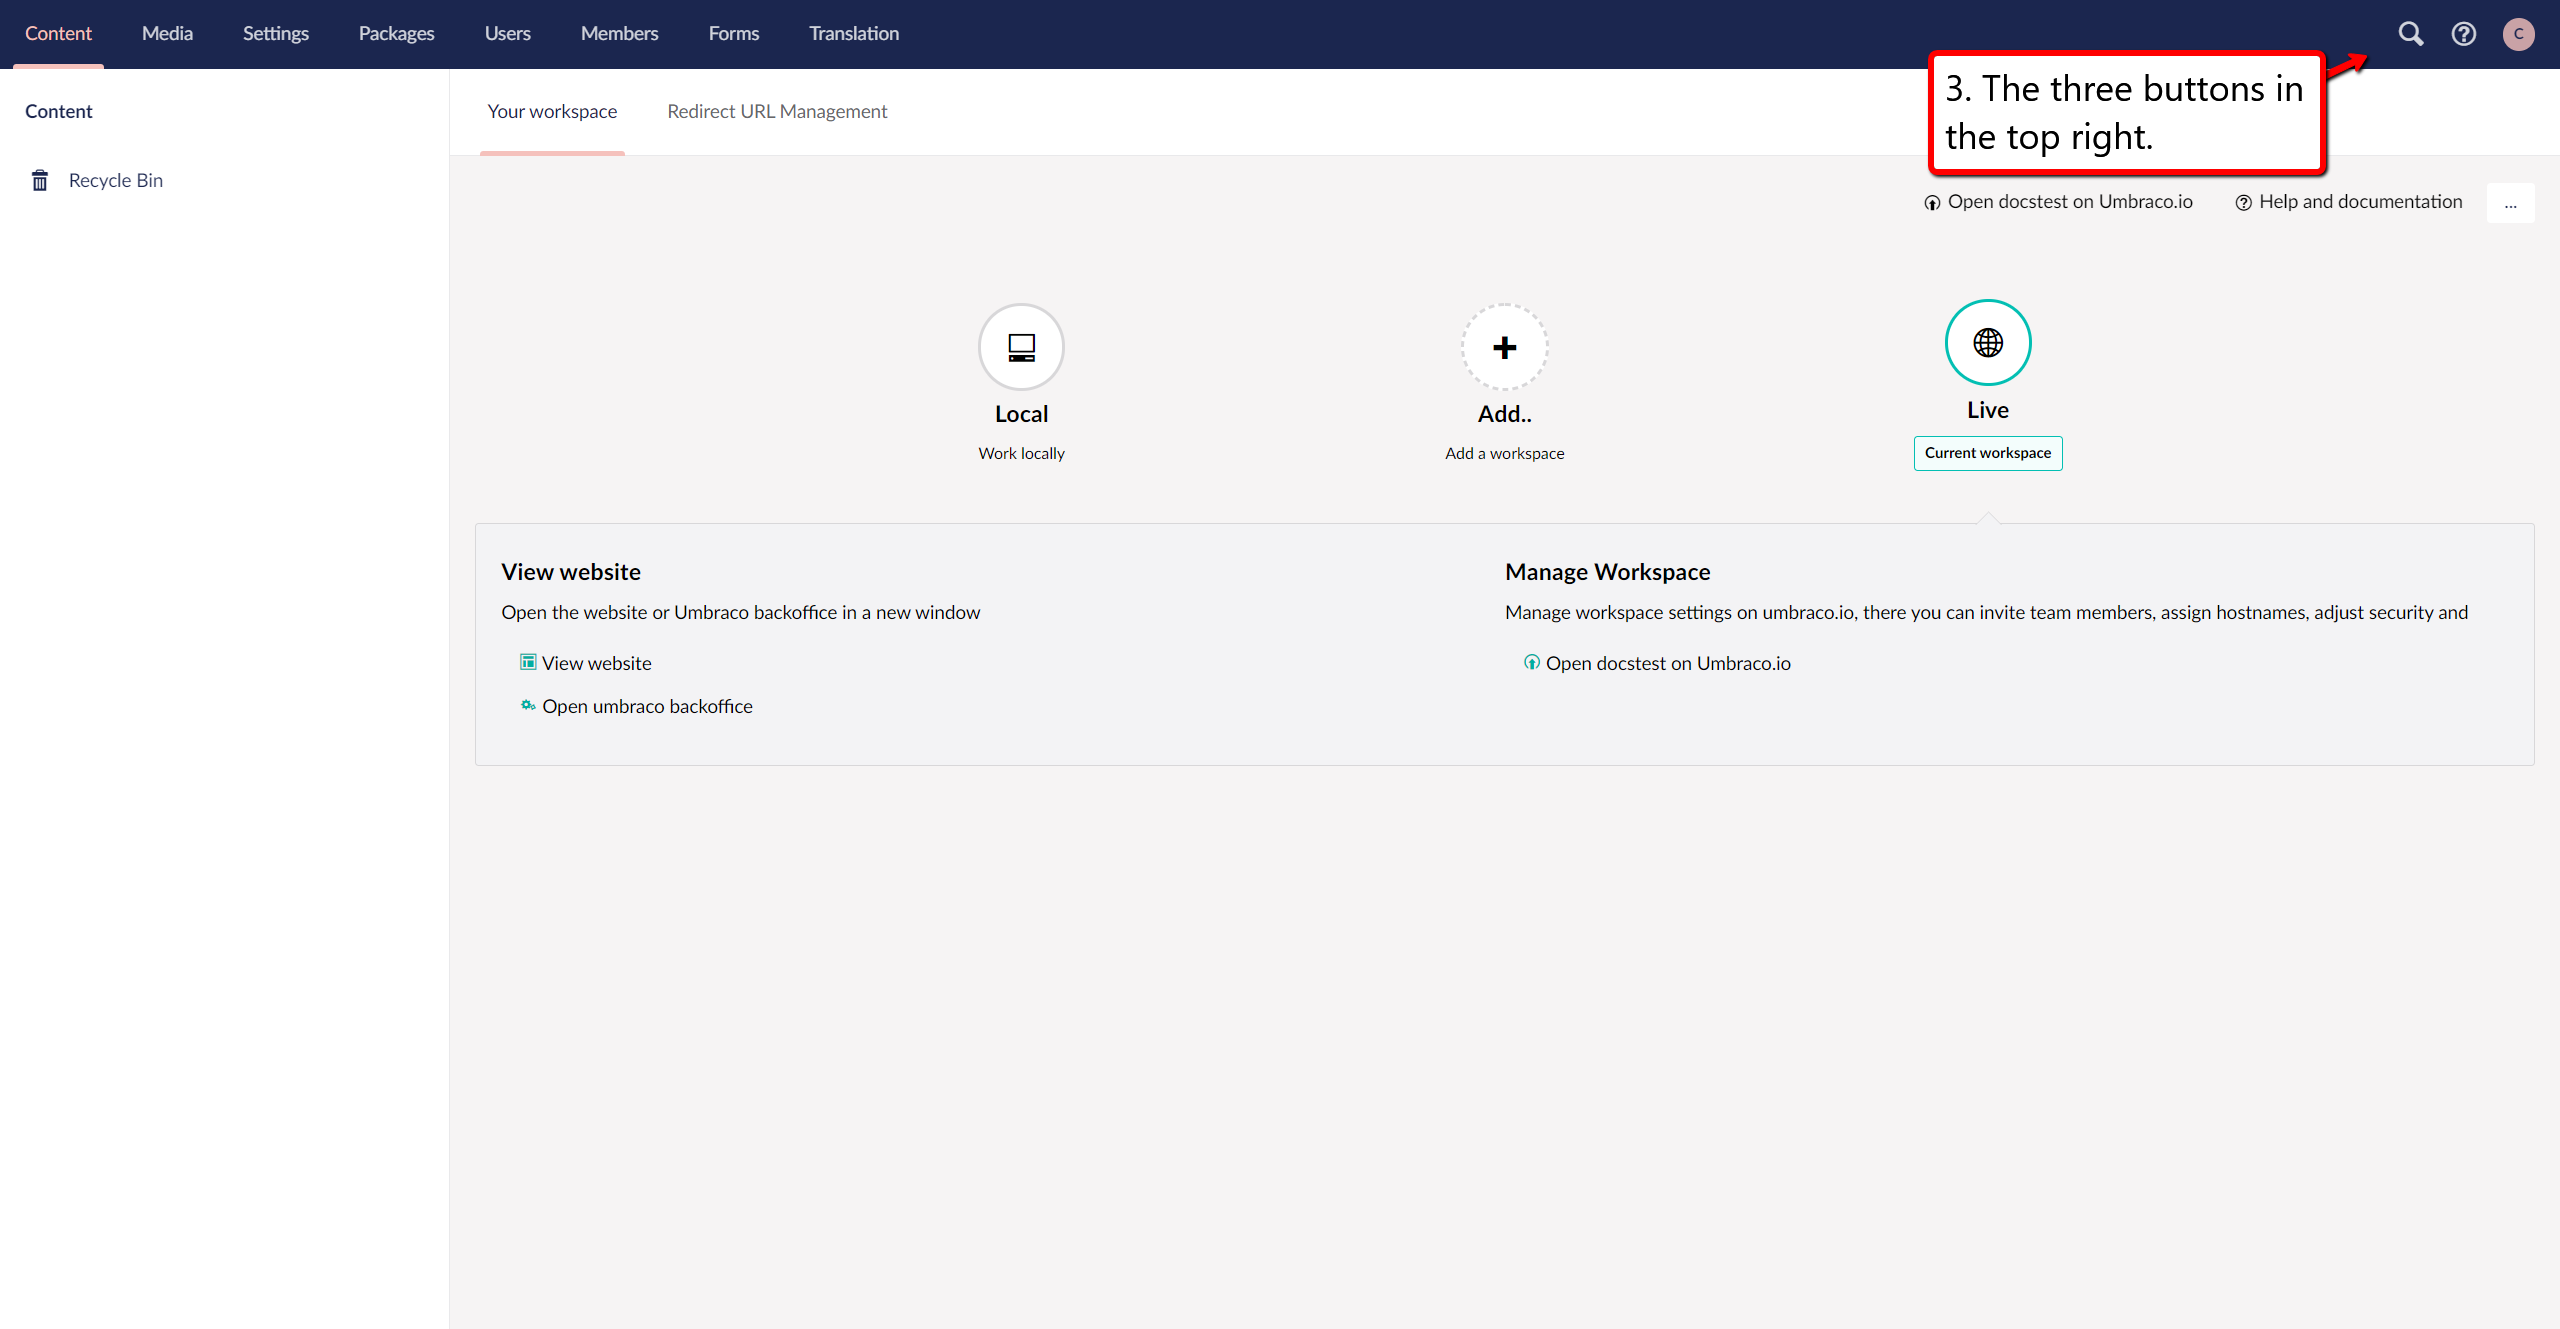
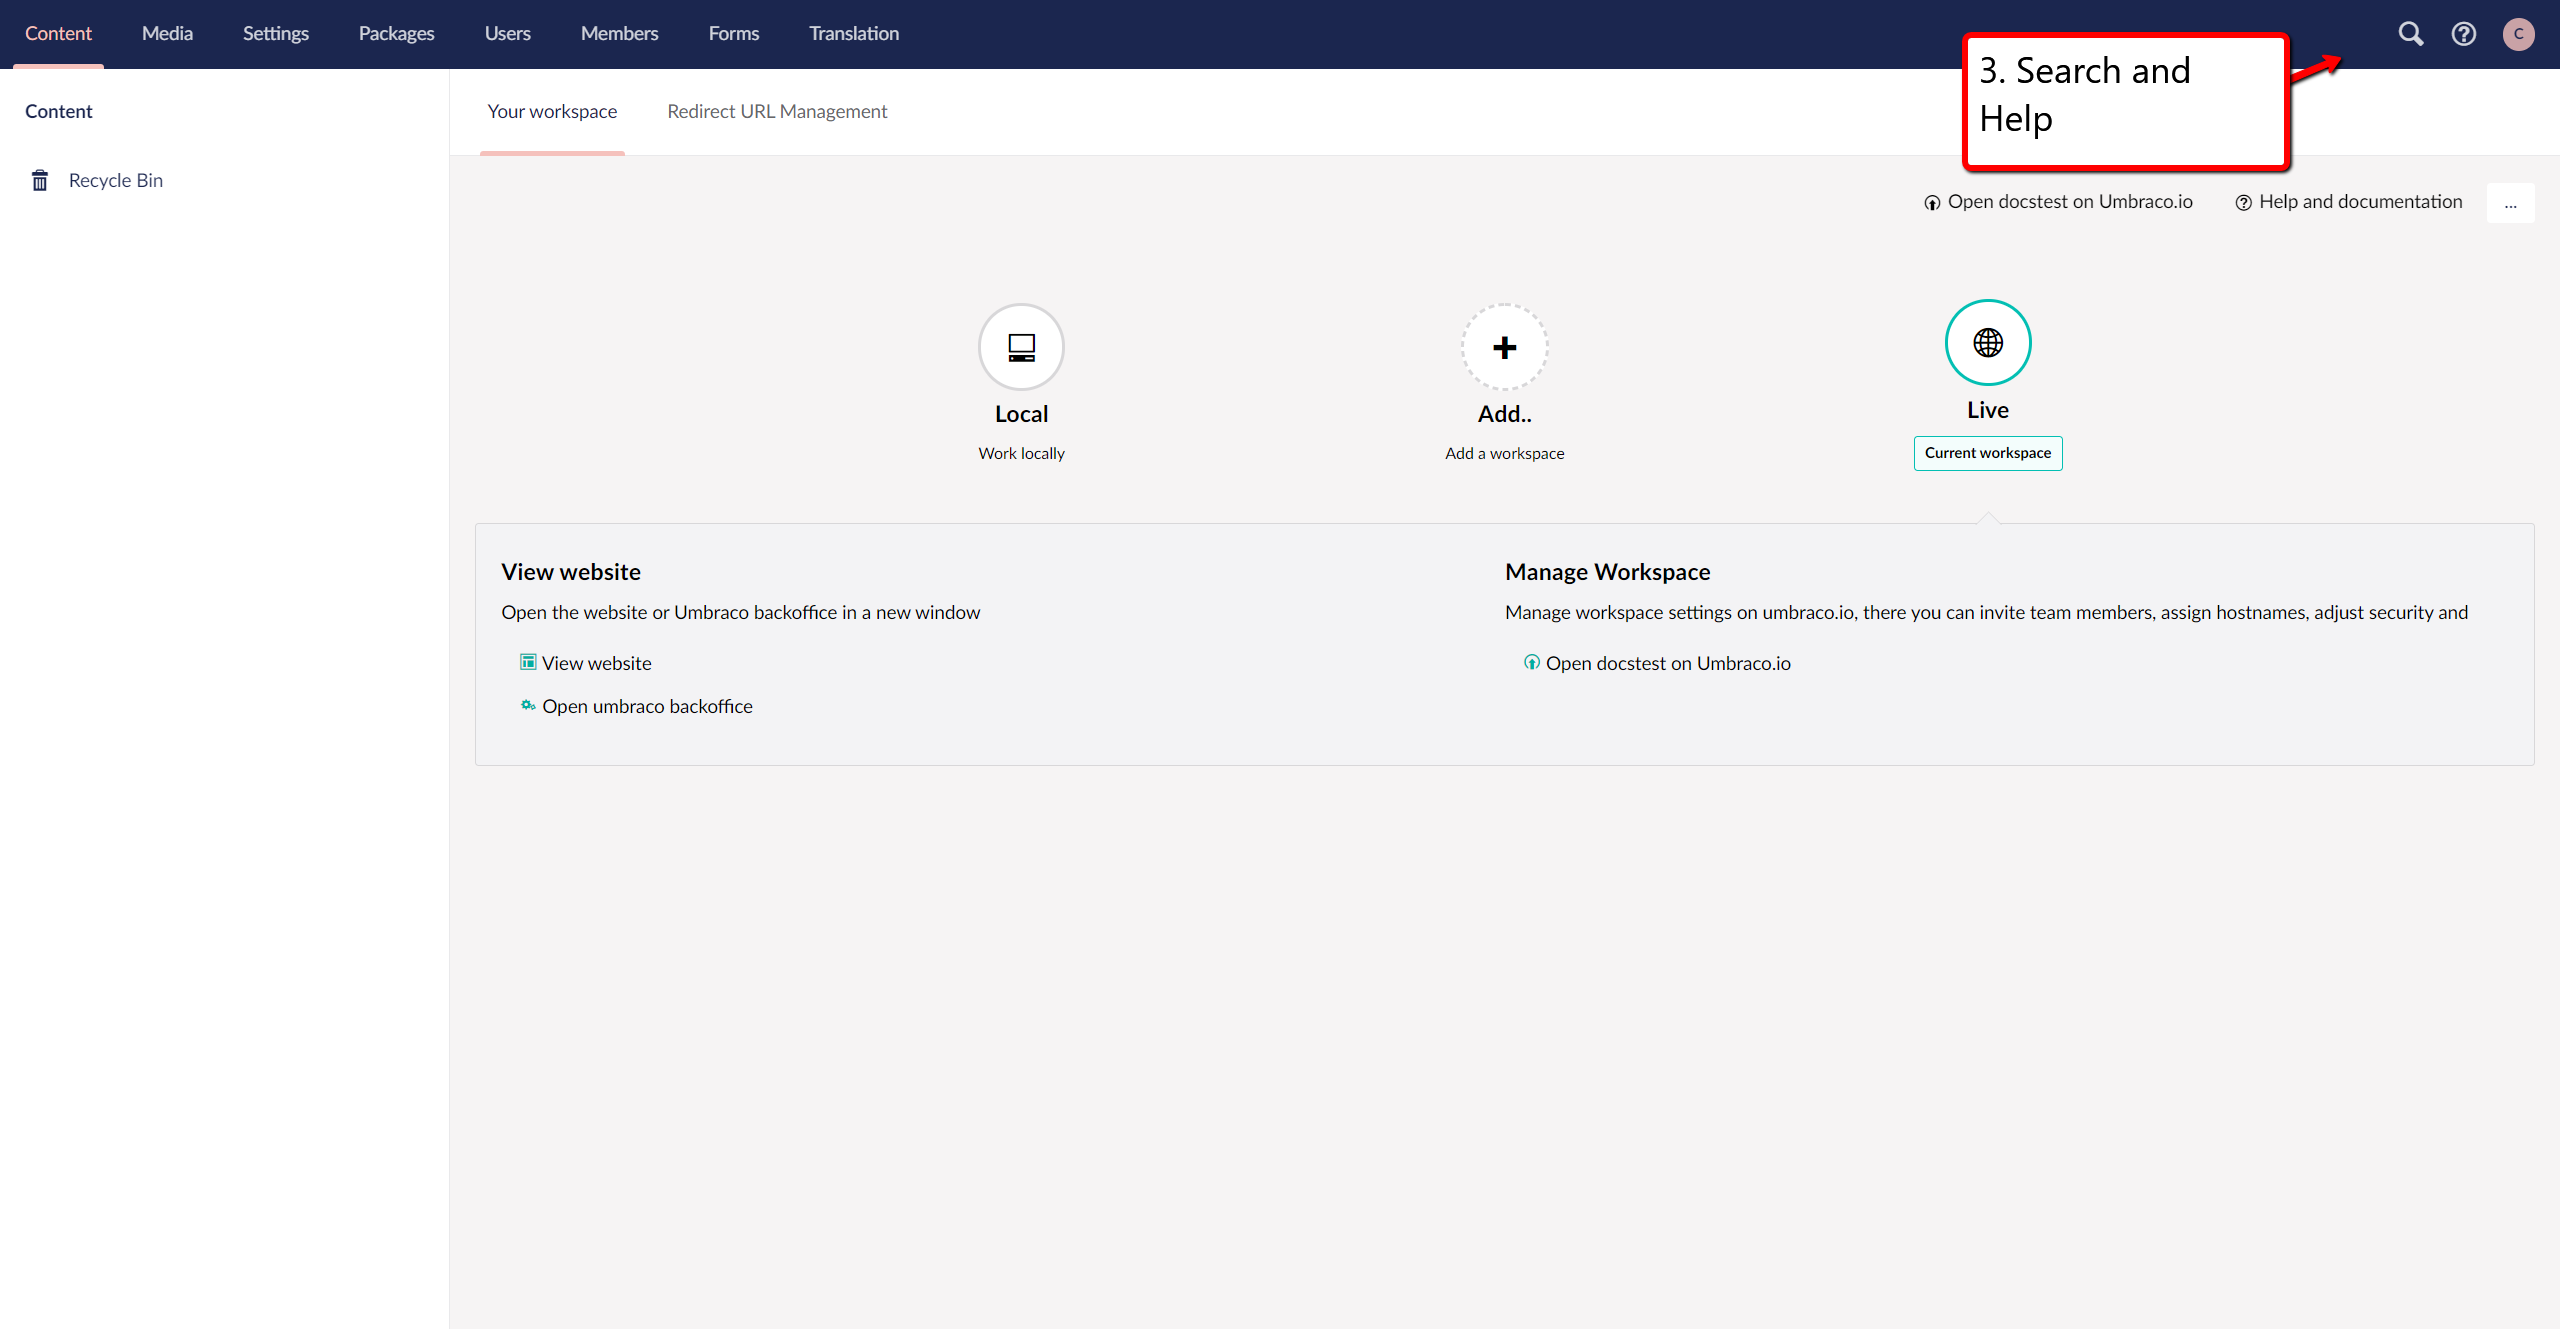
Update to the v8 article and images

Changed region(s): [[0.75, 0.0, 0.9375, 0.1543]]

diff --git a/Tutorials/Editors-Manual/Getting-Started-With-Umbraco/Umbraco-Interface/index.md b/Tutorials/Editors-Manual/Getting-Started-With-Umbraco/Umbraco-Interface/index.md
@@ -6,53 +6,53 @@ versionFrom: 8.0.0
 
 ## Initial View
 
-After logging in to an Umbraco V8 project you will be presented with a screen with a lot of different buttons in this guide you will gain a quick overview of what each button does.
+After logging in to an Umbraco 8 project you will be presented with a screen with a lot of different buttons. In this guide you will gain a quick overview of what each button does.
 
-![Environment.png](images/Environment.png)
+![This is an image that points to the three circles that symbolises the environments](images/The-Environment-overview.png)
 
-### 1. The three circles
-These circles represent the environments, the first one in the row is **local** environment, the next one on the right from local is to **add new** environments and the last one in the line is your **live** environment.
+### 1. The Environment overview
+These circles represent the environments avalible on the project. the first one in the row is **Local** environment, the next one on the right from local is the option to **add new** environments and the last one in the line is your **Live** environment.
 clicking these circles will present you with a box below that gives you different options.
 
-![Environment.png](images/Utility-links.png)
+![This shows an image that points to the utility links above the environments](images/The-Utility-Links.png)
 
-### 2. The three buttons slightly to the right
-The first button in this row opens the overview of the environments on the project, the second button takes you to the [Umbraco Cloud documentation](https://our.umbraco.com/Documentation/Umbraco-Cloud/).
-The last button has three dots, this gives you the following options: 
+### 2. The Utility links
+The first button in this row opens the overview of the environments on the project in the Umbraco Cloud portal. The second button takes you to the [Umbraco Cloud documentation](https://our.umbraco.com/Documentation/Umbraco-Cloud/).
+The last button has three dots, and gives you the following links: 
 - Getting Started
 - Set up a Project
 - Deployment
 - Troubleshooting
 
-![Environment.png](images/Search-and-help.png)
+![This image shows an arrow that points to the three buttons in the top right corner that is search, help and your profile. ](images/Search-And-Help.png)
 
 
-### 3. The three buttons in the top right
+### 3. Search and help
  The first button is a search field here you can search for the content that you are looking for.
 The second button is the help button if you click this you will get options for **help**.
 The third button is your **profile**, this will give you the option to edit your profile and password.
 
-![Environment.png](images/Two-tabs-left.png)
+![This image shows an arrow that points to the two tabs Your Workspace and Redirect URL Management.  ](images/The-Dashboards.png)
 
-### 4. The two buttons slightly towards top left
-The first button is **Your Workspace** that takes you to the tab with the circles on it.
-The second button is **Redirect URL Management** this is for redirects on you project.
+### 4. The Dashboards
+The first tab is **Your Workspace** which takes you to the dashboard with the environments overview.
+The second button is **Redirect URL Management** this is for redirects on your project.
 
-![Environment.png](images/The-top-bar-right.png)
+![This image is an arrow that point to the top bar in the left side with the eight tabs.](images/The-Section-Menu.png)
 
-### 5. The eight buttons in the far top left
-These buttons are the tabs that you will be working under during you work with you project. 
-The first button is **Content** this is where you manage your content.
-The next button is **Media**, under this tab you can manage images and other media files.
-The third button is **Settings**, in this tab you handle your meta data such as document types.
-Button number four is **Packages**, this tab lets you manage and install packages.
-The fifth button is **Users**, this tab lets you manage the users on the project.
-Button six is the **Members** tab, and here you can handle the members of the project.
-The seventh button in the row is **Forms** tab, here you can create and manage your forms.
-The final and eight button is **Translation**, this tab is for managing languages.  
+### 5. The Sections menu
+The menu at the top, contains links to each section in the backoffice. 
+- The first button is **Content** this is where you manage your content.
+- The next button is **Media**, under this tab you can manage images and other media files.
+- The third button is **Settings**, in this tab you handle your meta data such as document types.
+- Button number four is **Packages**, this tab lets you manage and install packages.
+- The fifth button is **Users**, this tab lets you manage the users on the project.
+- Button six is the **Members** tab, and here you can handle the members of the project.
+- The seventh button in the row is **Forms** tab, here you can create and manage your forms.
+- The final and eight button is **Translation**, this tab is for managing languages.  
 
-![Environment.png](images/Colone-left.png)
+![This is an arrow that points to the section tree on the left.](images/The-Section-Tree.png)
 
-### 6. The two buttons on the far left
+### 6. The Section tree
 The first one is **Content** this allows you to create content nodes, and manage your content tree, if you hover over it then it will highlight with a darker color indicating that you are hovering over it, and a button with three dots will show up, clicking this will present you with additional options, there will be other option if you right click the field.
 The second button is the **Recycle bin**, this is where your deleted content ends up.

diff --git a/Tutorials/Editors-Manual/Getting-Started-With-Umbraco/Umbraco-Interface/index-v7.md b/Tutorials/Editors-Manual/Getting-Started-With-Umbraco/Umbraco-Interface/index-v7.md
@@ -11,7 +11,6 @@ Once you have logged in you will enter the Content section of Umbraco. There are
 To the right of the section bar is the tree view which shows the structure of your website. To navigate the tree you can click on the black arrows to the left of tree items which will reveal any sub-pages. Clicking on the
 page name will load that page’s content into the large content area on the right of the tree view.
 
-![section tree content.jpg](images/section tree content.jpg)
 
 ![landingPage.jpg](images/landingPage.jpg)
 
